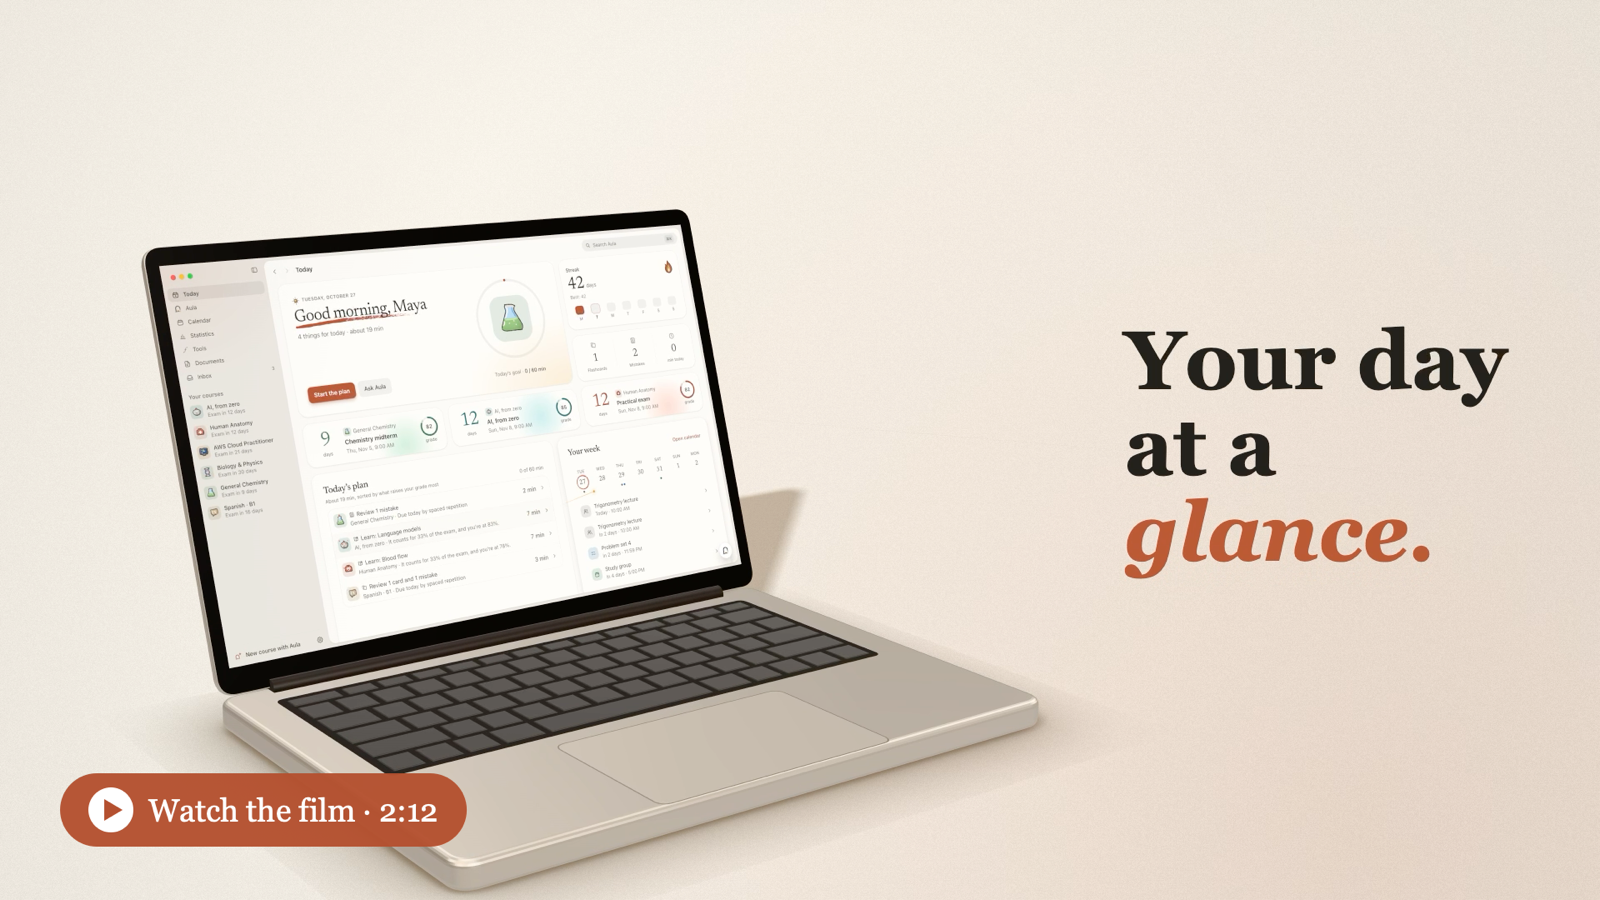
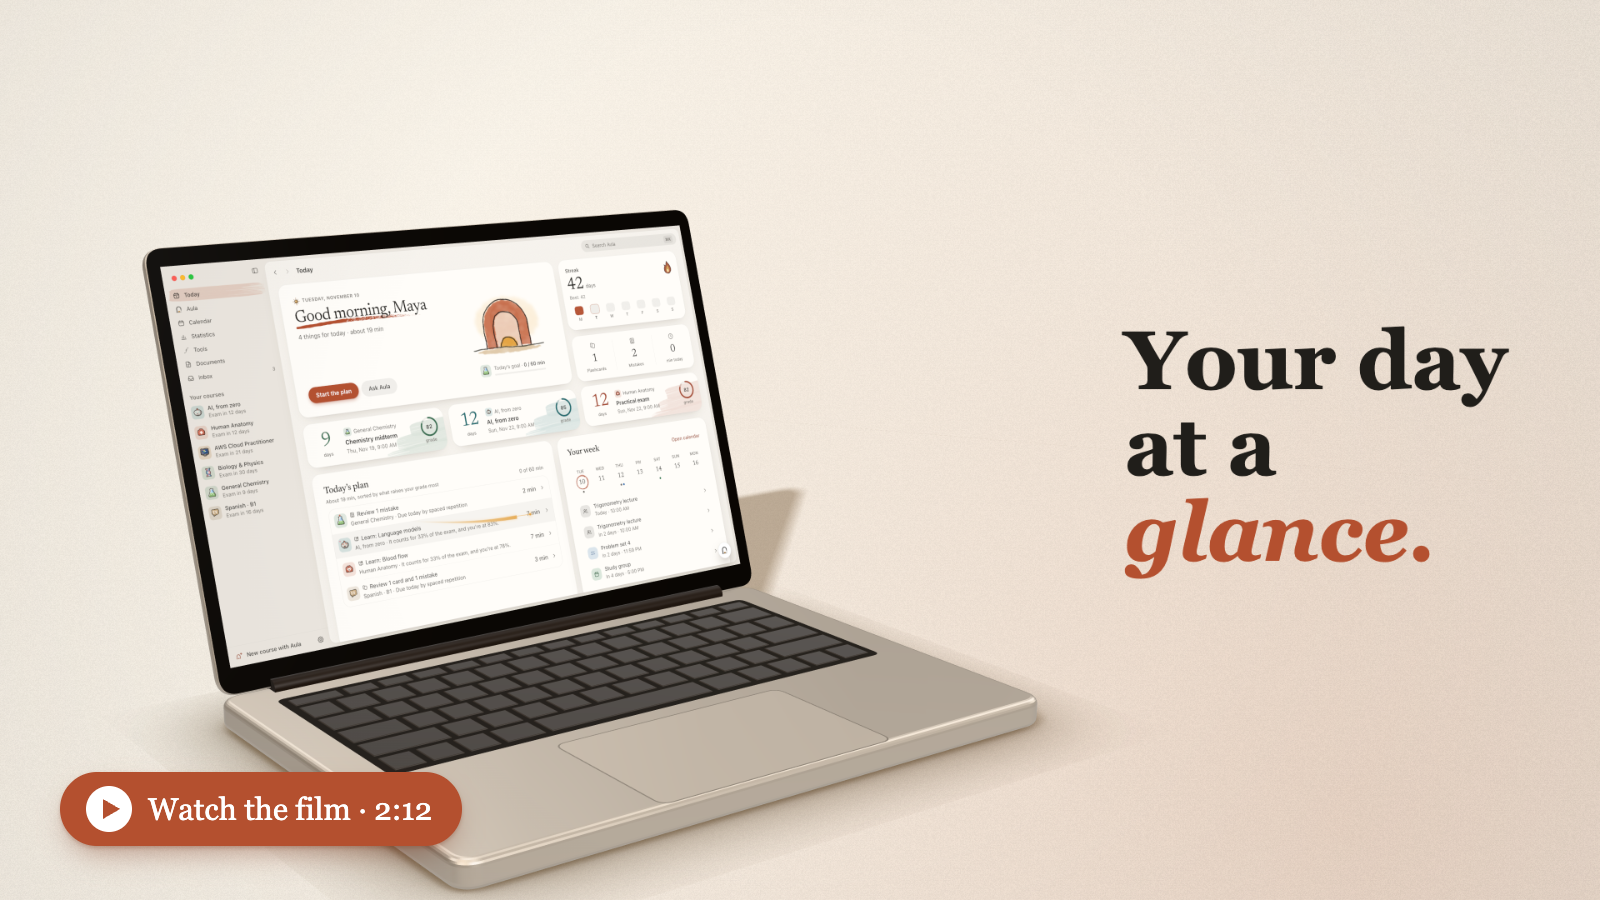
New film poster, and how to redo the film from scratch
The poster is a frame of the re-rendered film (the new Today screen inside
the laptop). scripts/dev/film-poster.mjs adds the badge; the video README
now lists the full sequence to rebuild the V6 film when the interface or
the icon change.

diff --git a/scripts/video/README.md b/scripts/video/README.md
@@ -264,6 +264,37 @@ AULA_VIDEO_NO_WORLDS=1 node scripts/video/render.ts scripts/video/montage/v6-lap
     pantalla 3D, y el portátil se apaga debajo en 0,35 s (sin salto a una ventana 2D).
 - Ejemplo de todo esto: `montage/v6-s3.ts` (14,4 s).
 
+## V6: rehacer la película entera (cuando cambian la interfaz o el icono)
+
+La V6 solo compone: sus tomas son las de la V5 más la de cámara lenta. Con `work/` vacío, en este orden (unos 75 min en
+un Mac con Apple Silicon; todo a partir de la compilación de `out/`):
+
+```sh
+npm run build
+node scripts/video/render.ts scripts/video/montage/aula-v5-film.ts --only capture --jobs 3        # las 8 tomas (~40 min)
+W=scripts/video/work
+mkdir -p $W/v6-tec2-world && cp -c -R $W/worlds-v5/v*/v*/course $W/v6-tec2-world/course          # el mundo de la V5, clonado
+node scripts/video/render.ts scripts/video/montage/v6-hfr.ts --only capture --jobs 2              # cámara lenta (~15 min)
+mkdir -p $W/aula-v6-film/takes
+for t in always ask docs every learn main morning see; do cp -c -R $W/aula-v5-film/takes/$t $W/aula-v6-film/takes/$t; done
+cp -c -R $W/v6-tec2/takes/nacl $W/aula-v6-film/takes/nacl
+AULA_VIDEO_NO_WORLDS=1 node scripts/video/render.ts scripts/video/montage/aula-v6-film.ts --reuse --only cues
+node scripts/video/sound-v3/render.ts $W/aula-v6-film/cuesheet.json $W/aula-v6-film/soundtrack.wav
+AULA_VIDEO_NO_WORLDS=1 AULA_VIDEO_FPS=30 node scripts/video/render.ts scripts/video/montage/aula-v6-film.ts --reuse --draft   # borrador
+AULA_VIDEO_NO_WORLDS=1 node scripts/video/render.ts scripts/video/montage/aula-v6-film.ts --reuse --stills 10.4              # final (~8 min)
+npx electron scripts/dev/film-poster.mjs $W/aula-v6-film/stills/aula-v6-film-10.40.png 2:12                                  # el póster del README
+```
+
+- Las fechas del mundo salen del día en que se graba: la toma de la mañana pasa de mes en el calendario solo si el examen
+  (el viernes de la semana siguiente) cae en el mes siguiente (`EXAM_NEXT_MONTH` en `aula-film.ts`).
+- El icono del prólogo y del final es el de la app (`compose/icon.ts` lo dibuja desde `scripts/dev/icon/ink-art.mjs`): si
+  cambia el icono, cambian solos.
+- La banda sonora del v3 sale con el pico verdadero en torno a −1,2 dBTP y el control de calidad del máster pide ≤ −1,5:
+  si avisa, baja el WAV 0,4 dB (una ganancia plana, sin limitar) y vuelve a componer.
+- Los MP4 se publican como archivos de la versión v0.1.0 de GitHub (`Aula-film.mp4`, el máster, y `Aula-film-web.mp4`, el
+  del README), sustituyendo a los anteriores: `gh release upload v0.1.0 <archivo> --clobber`. Nunca como una versión
+  nueva (ver `docs/PUBLISHING.md`).
+
 ## V6: personajes que se dibujan a pincel
 
 Los compañeros y los iconos de curso de la app aparecen trazándose a pincel, trazo a trazo, con el pintor de la app
